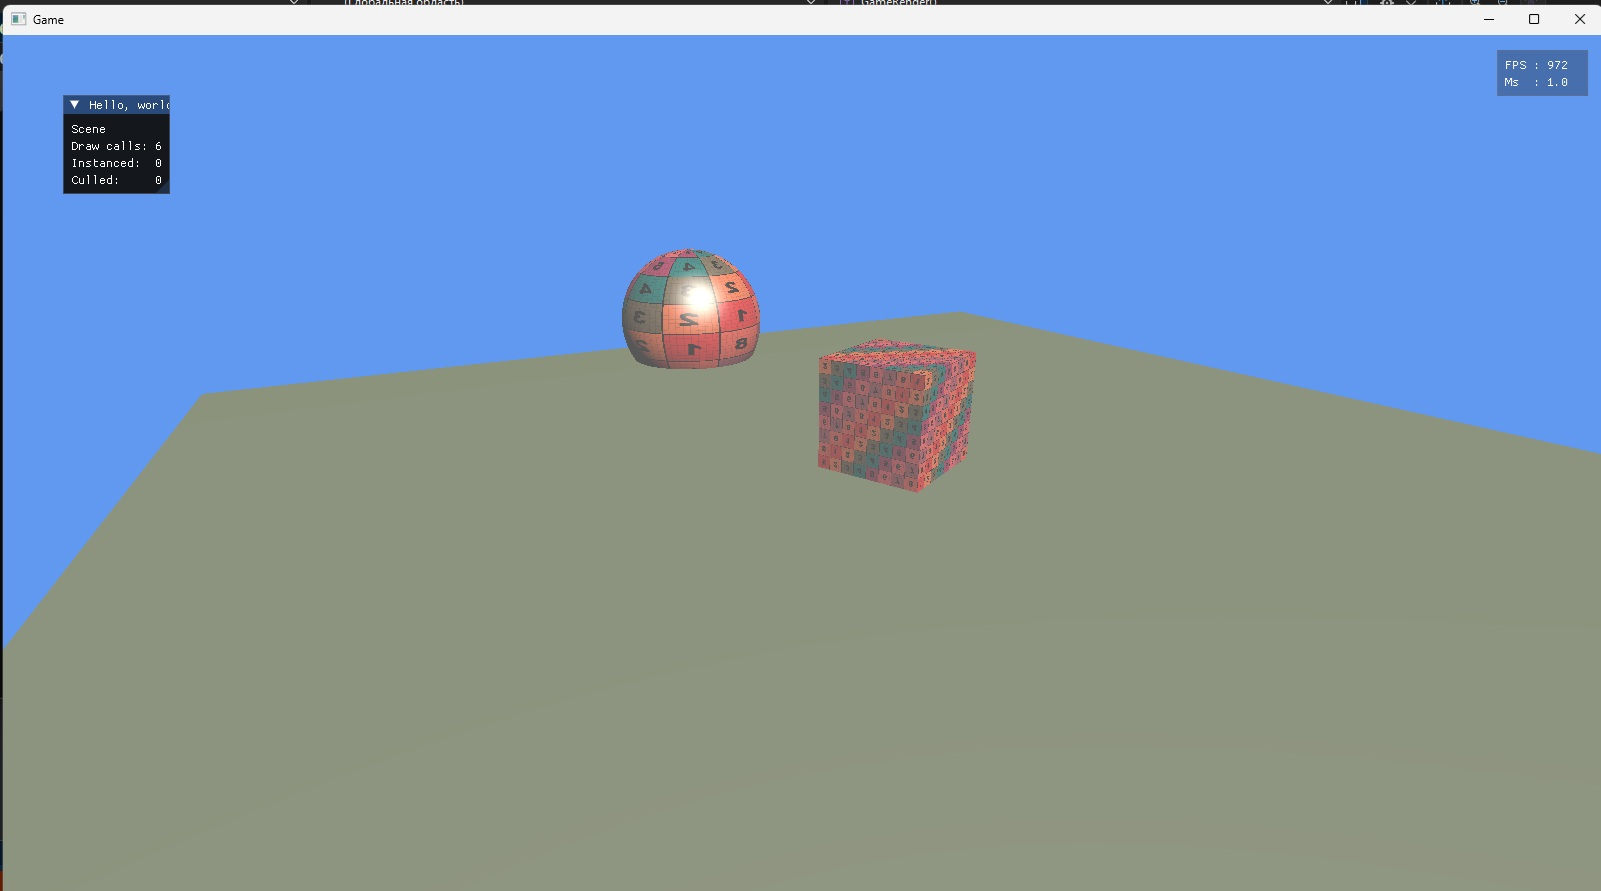
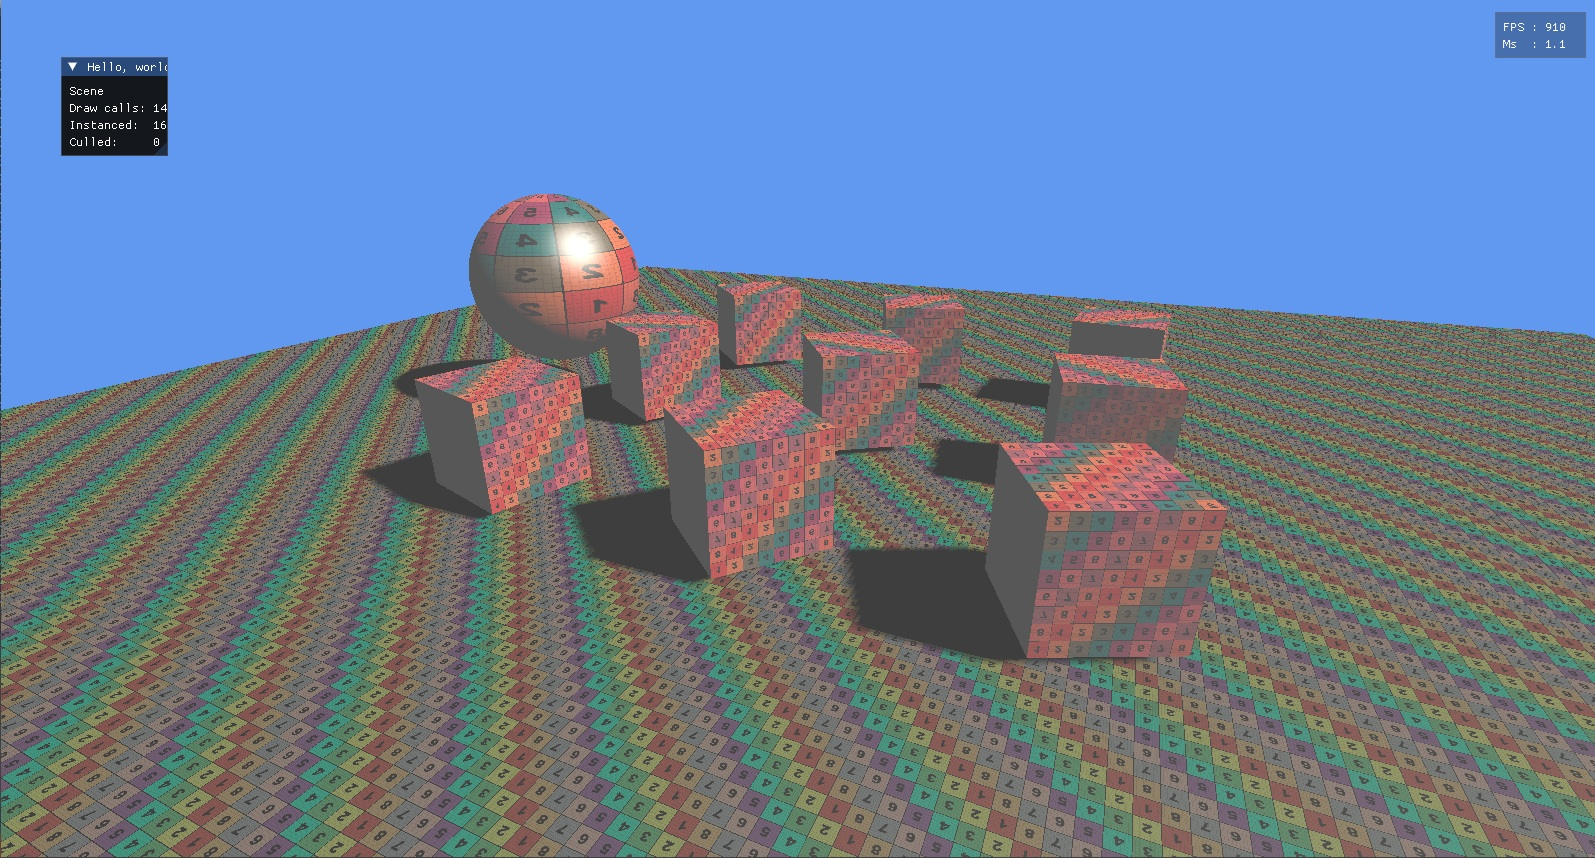
новый скриншот

diff --git a/AGENTS.md b/AGENTS.md
@@ -1,0 +1,25 @@
+# Project Rules
+
+## Запрещено
+- **Exception handling**: не использовать `try`/`catch`/`throw`. Код должен быть noexcept-friendly.
+- **ECS**: не использовать Entity-Component-System архитектуру.
+- **Динамический полиморфизм через виртуальные функции** — запрещён в hot-path. Только через CRTP, std::variant, или явные таблицы функций.
+- **std::shared_ptr в hot-path**: только std::unique_ptr или raw owning pointers.
+
+## Требования к коду
+- **C++20/26**, без исключений.
+- **Явный noexcept** на всех функциях, где возможно.
+- **constexpr/consteval** где возможно.
+- **RAII** для всех ресурсов.
+- **OpenGL 4.5+ core profile**, только DSA (Direct State Access).
+- **Ручное управление памятью** через кастомные аллокаторы где нужна производительность.
+- **Flat структуры данных** вместо иерархических (SoA, ECS-запрещён, но ручная SoA норм).
+
+## Стиль
+- Имена файлов: `snake_case`.
+- Классы: `PascalCase`.
+- Глобальные Функции/методы: `PascalCase`.
+- Локальные встроенные функции/приватные методы: `camelCase`.
+- Макросы: `UPPER_SNAKE_CASE`.
+- Только табуляция в отступах кода
+- Без `using namespace std;`.
